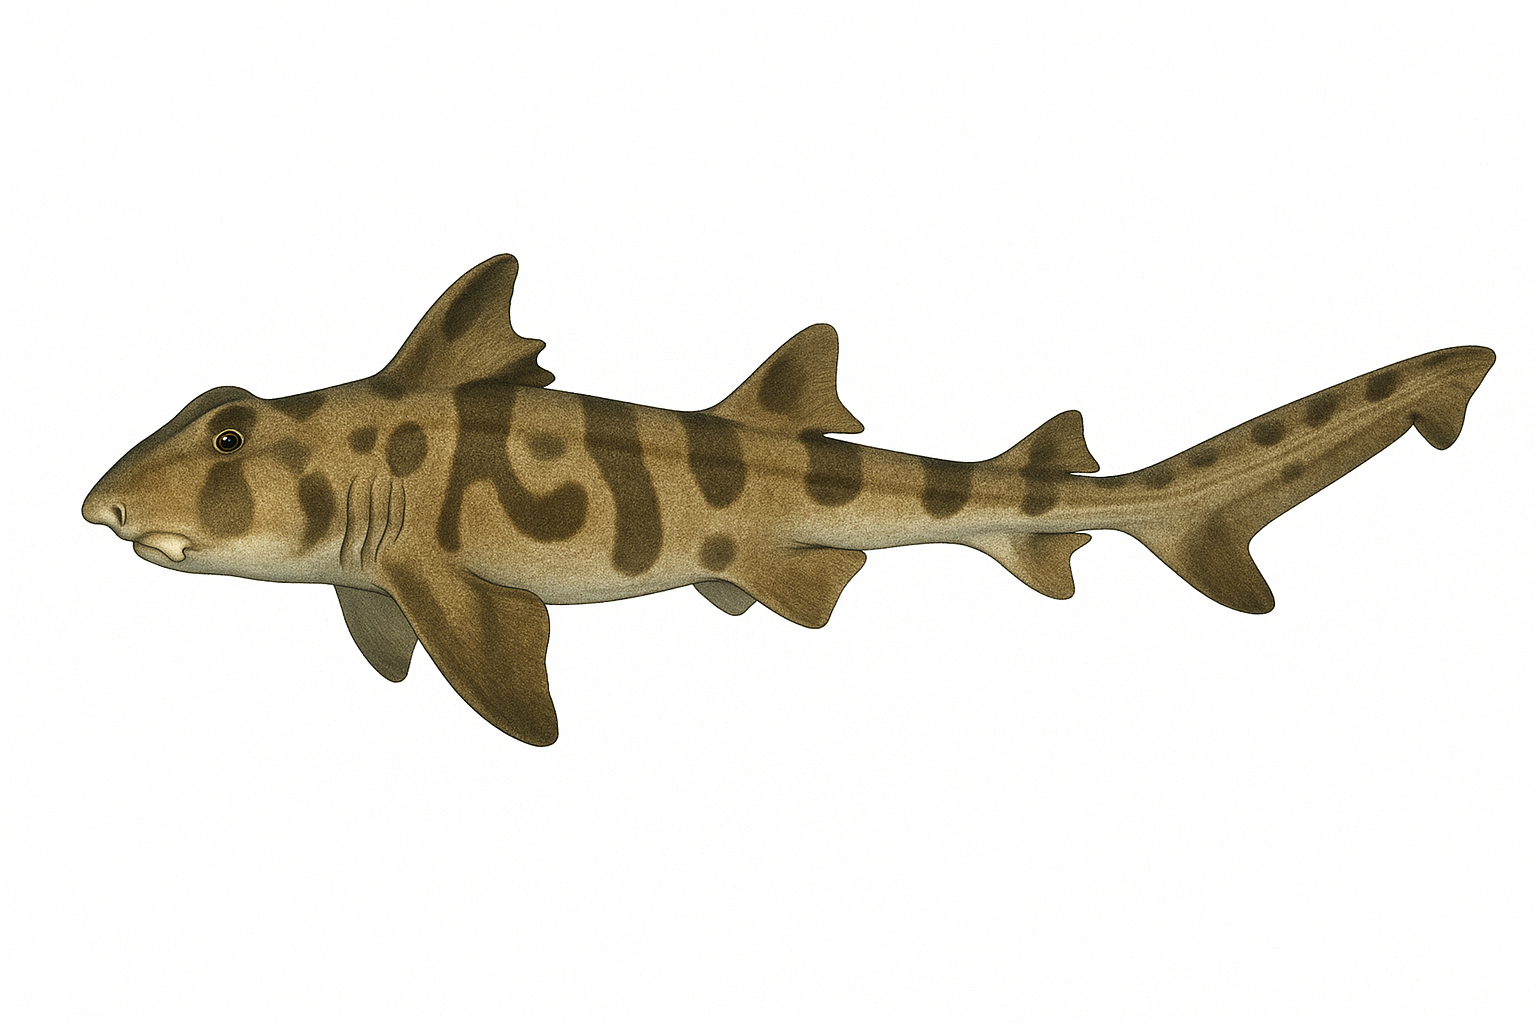
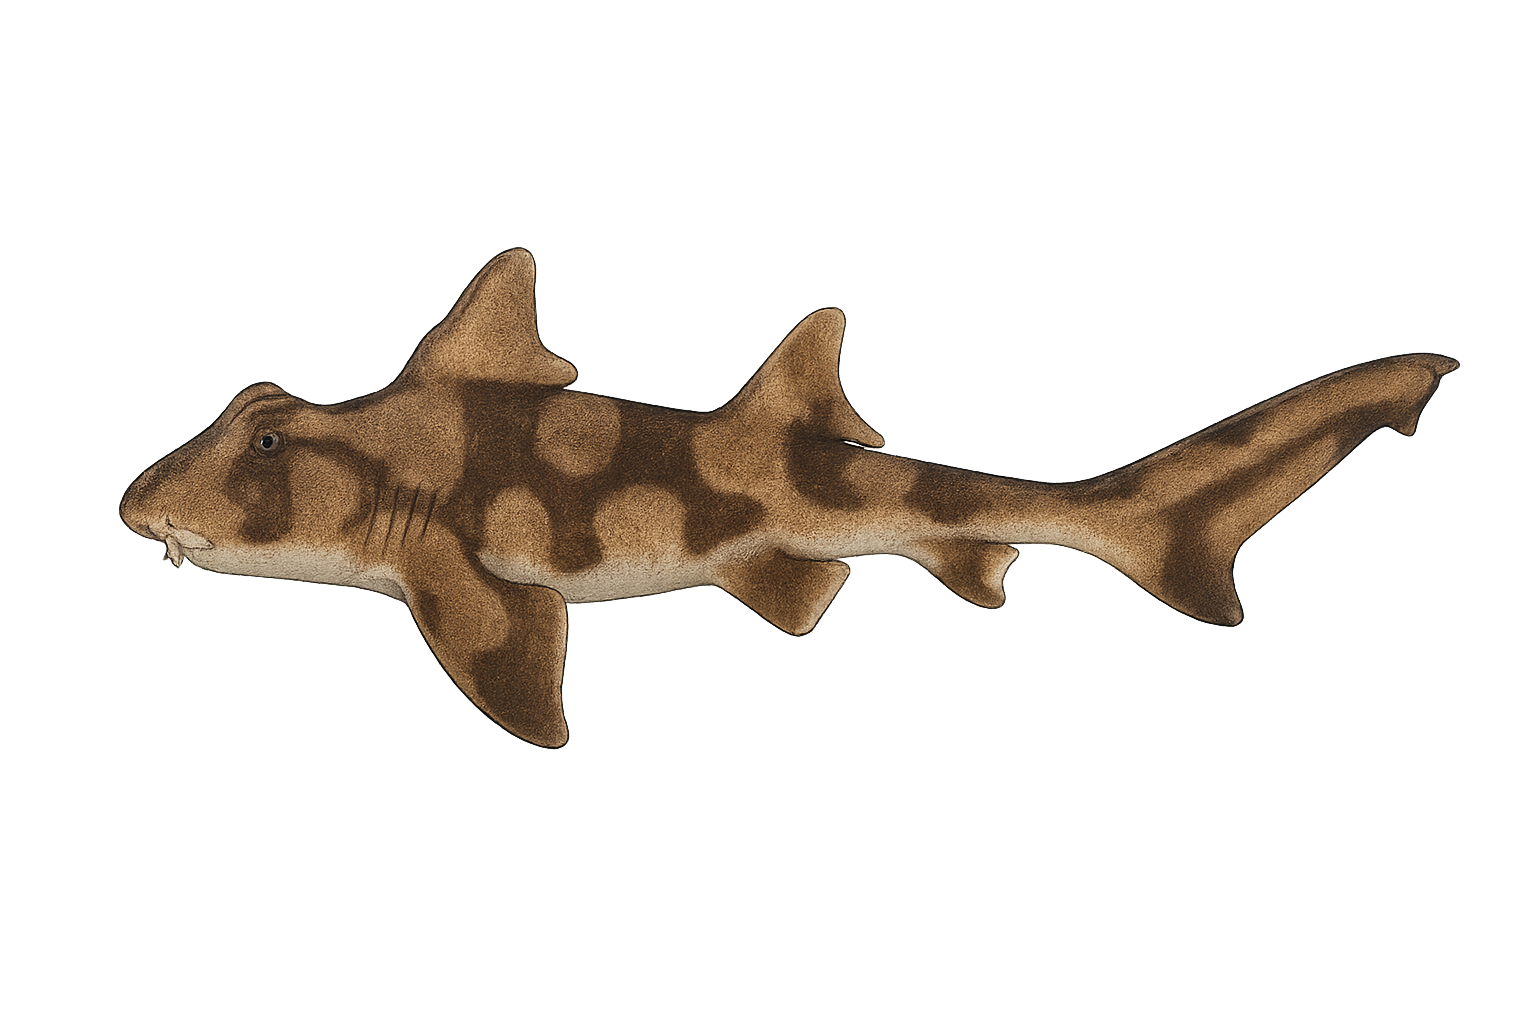
feat: More sharks

Changed region(s): [[0.0312, 0.2188, 0.9688, 0.75]]

diff --git a/src/data/species/sharks/carcharhiniformes/carcharhinidae/carcharhinus-falciformis.js b/src/data/species/sharks/carcharhiniformes/carcharhinidae/carcharhinus-falciformis.js
@@ -1,9 +1,12 @@
 import { CONSERVATION_STATUS, NICTITATING_MEMBRANE, REPRODUCTIVE_STRATEGY, SPIRACLES } from "../../../../../constants/enums";
+import carcharhinusFalciformisImg from "./../../../../../images/carcharhiniformes/carcharhinidae/carcharhinus-falciformis.png";
 
 export const carcharhinusFalciformis = {
     commonName: "Silky Shark",
     alternativeNames: ["Blackspot Shark", "Gray Whaler Shark", "Olive Shark", "Ridgeback Shark", "Sickle Shark", "Sickle-Shaped Shark", "Sickle Silk Shark"],
     binomialName: "Carcharhinus falciformis",
+
+    imageUrl: carcharhinusFalciformisImg,
 
     domain:	"Eukaryota",
     kingdom: "Animalia",

diff --git a/src/data/species/sharks/carcharhiniformes/carcharhinidae/prionace-glauca.js b/src/data/species/sharks/carcharhiniformes/carcharhinidae/prionace-glauca.js
@@ -1,9 +1,12 @@
 import { BEHAVIOR, CONSERVATION_STATUS, NICTITATING_MEMBRANE, REPRODUCTIVE_STRATEGY, SPIRACLES } from "../../../../../constants/enums";
+import prionaceGlaucaImg from "./../../../../../images/carcharhiniformes/carcharhinidae/prionace-glauca.png";
 
 export const prionaceGlauca = {
     commonName: "Blue Shark",
     alternativeNames: ["Great Blue Shark"],
     binomialName: "Prionace glauca",
+
+    imageUrl: prionaceGlaucaImg,        
 
     domain:	"Eukaryota",
     kingdom: "Animalia",

diff --git a/src/data/species/sharks/heterodontiformes/heterodontus-francisci.js b/src/data/species/sharks/heterodontiformes/heterodontus-francisci.js
@@ -1,9 +1,12 @@
 import { CONSERVATION_STATUS, DORSAL_FIN_SPINES, REPRODUCTIVE_STRATEGY } from "../../../../constants/enums";
+import heterodontusFrancisciImg from "./../../../../images/heterodontiformes/heterodontus-francisci.png";
 
 export const heterodontusFrancisci = {
     commonName: "Horn Shark",
     alternativeNames: ["California Horn Shark"],
     binomialName: "Heterodontus francisci",
+
+    imageUrl: heterodontusFrancisciImg,
 
     domain:	"Eukaryota",
     kingdom: "Animalia",

diff --git a/src/data/species/sharks/orectolobiformes/brachaelurus-waddi.js b/src/data/species/sharks/orectolobiformes/brachaelurus-waddi.js
@@ -1,9 +1,12 @@
 import { CONSERVATION_STATUS, MOUTH_IN_FRONT_OF_EYES, REPRODUCTIVE_STRATEGY } from "../../../../constants/enums";
+import brachaelurusWaddiImg from "./../../../../images/orectolobiformes/brachaelurus-waddi.png";
 
 export const brachaelurusWaddi = {
     commonName: "Blind Shark",
     alternativeNames: ["Brown Catshark", "Dusky Dogfish"],
     binomialName: "Brachaelurus waddi",
+
+    imageUrl: brachaelurusWaddiImg,
 
     domain:	"Eukaryota",
     kingdom: "Animalia",

diff --git a/src/data/species/sharks/heterodontiformes/heterodontus-portusjacksoni.js b/src/data/species/sharks/heterodontiformes/heterodontus-portusjacksoni.js
@@ -1,8 +1,11 @@
 import { CONSERVATION_STATUS, DORSAL_FIN_SPINES, REPRODUCTIVE_STRATEGY } from "../../../../constants/enums";
+import heterodontusPortusjacksoniImg from "./../../../../images/heterodontiformes/heterodontus-portusjacksoni.png";
 
 export const heterodontusPortusjacksoni = {
     commonName: "Port Jackson Shark",
     binomialName: "Heterodontus portusjacksoni",
+
+    imageUrl: heterodontusPortusjacksoniImg,
 
     domain:	"Eukaryota",
     kingdom: "Animalia",

diff --git a/src/data/species/sharks/hexanchiformes/hexanchus-griseus.js b/src/data/species/sharks/hexanchiformes/hexanchus-griseus.js
@@ -1,8 +1,11 @@
 import { CONSERVATION_STATUS, NUM_DORSAL_FINS, NUM_GILLS, REPRODUCTIVE_STRATEGY } from "../../../../constants/enums";
+import hexanchusGriseusImg from "./../../../../images/hexanchiformes/hexanchus-griseus.png";
 
 export const hexanchusGriseus = {
     commonName: "Bluntnose Sixgill Shark",
     binomialName: "Hexanchus griseus",
+
+    imageUrl: hexanchusGriseusImg,
 
     domain:	"Eukaryota",
     kingdom: "Animalia",

diff --git a/src/data/species/sharks/heterodontiformes/heterodontus-zebra.js b/src/data/species/sharks/heterodontiformes/heterodontus-zebra.js
@@ -1,8 +1,11 @@
 import { CONSERVATION_STATUS, DORSAL_FIN_SPINES, REPRODUCTIVE_STRATEGY } from "../../../../constants/enums";
+import heterodontusZebraImg from "./../../../../images/heterodontiformes/heterodontus-zebra.png";
 
 export const heterodontusZebra = {
     commonName: "Zebra Bullhead Shark",
     binomialName: "Heterodontus zebra",
+
+    imageUrl: heterodontusZebraImg,
 
     domain:	"Eukaryota",
     kingdom: "Animalia",
